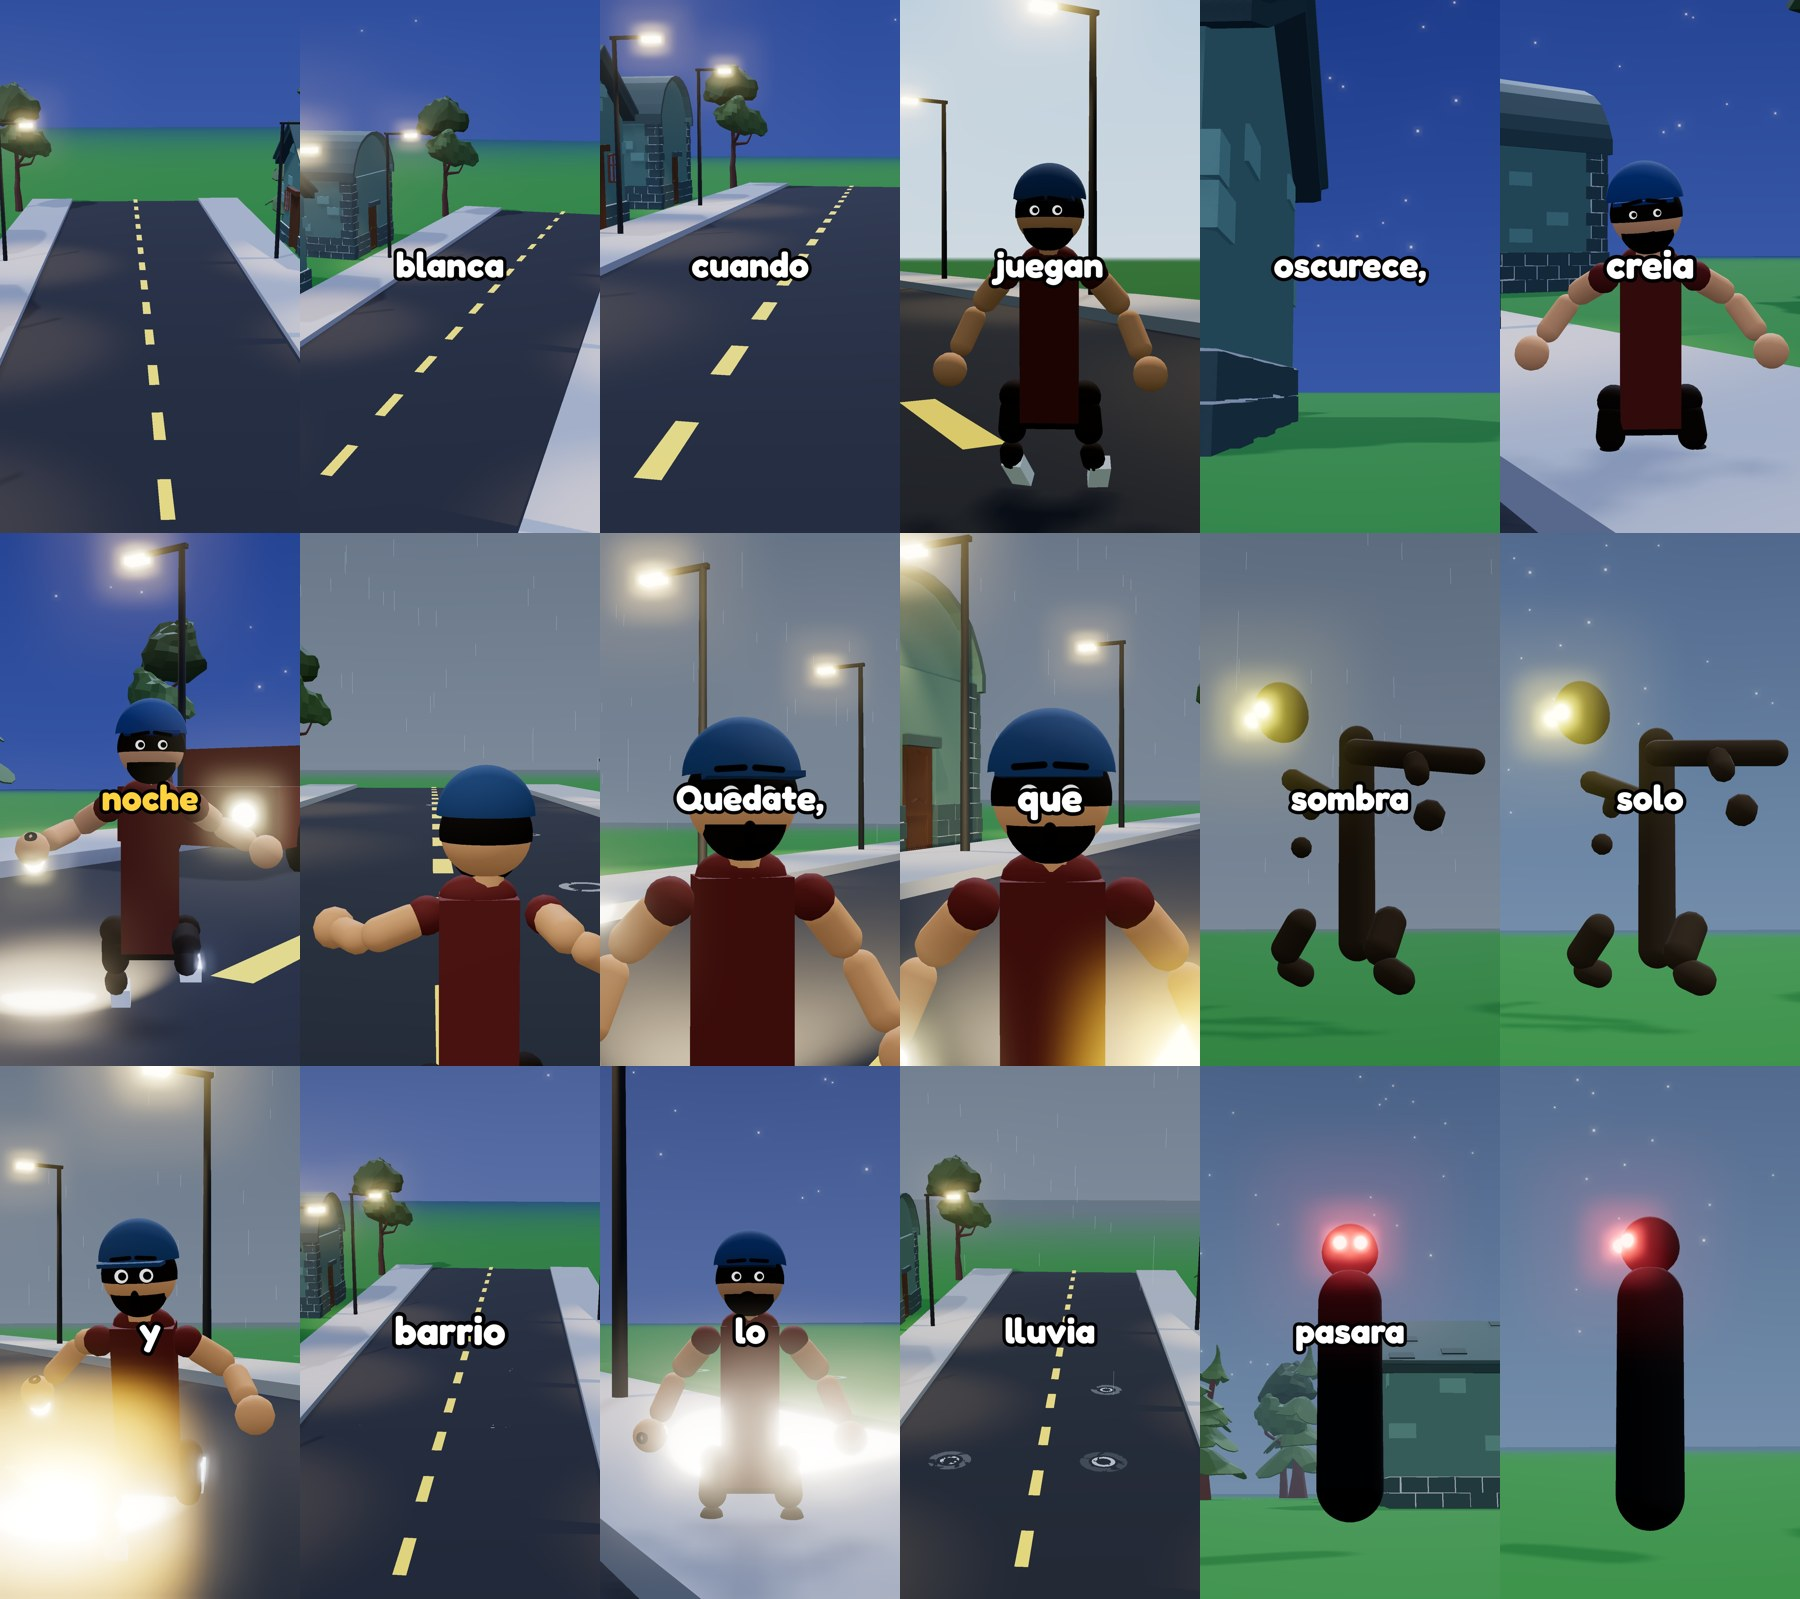
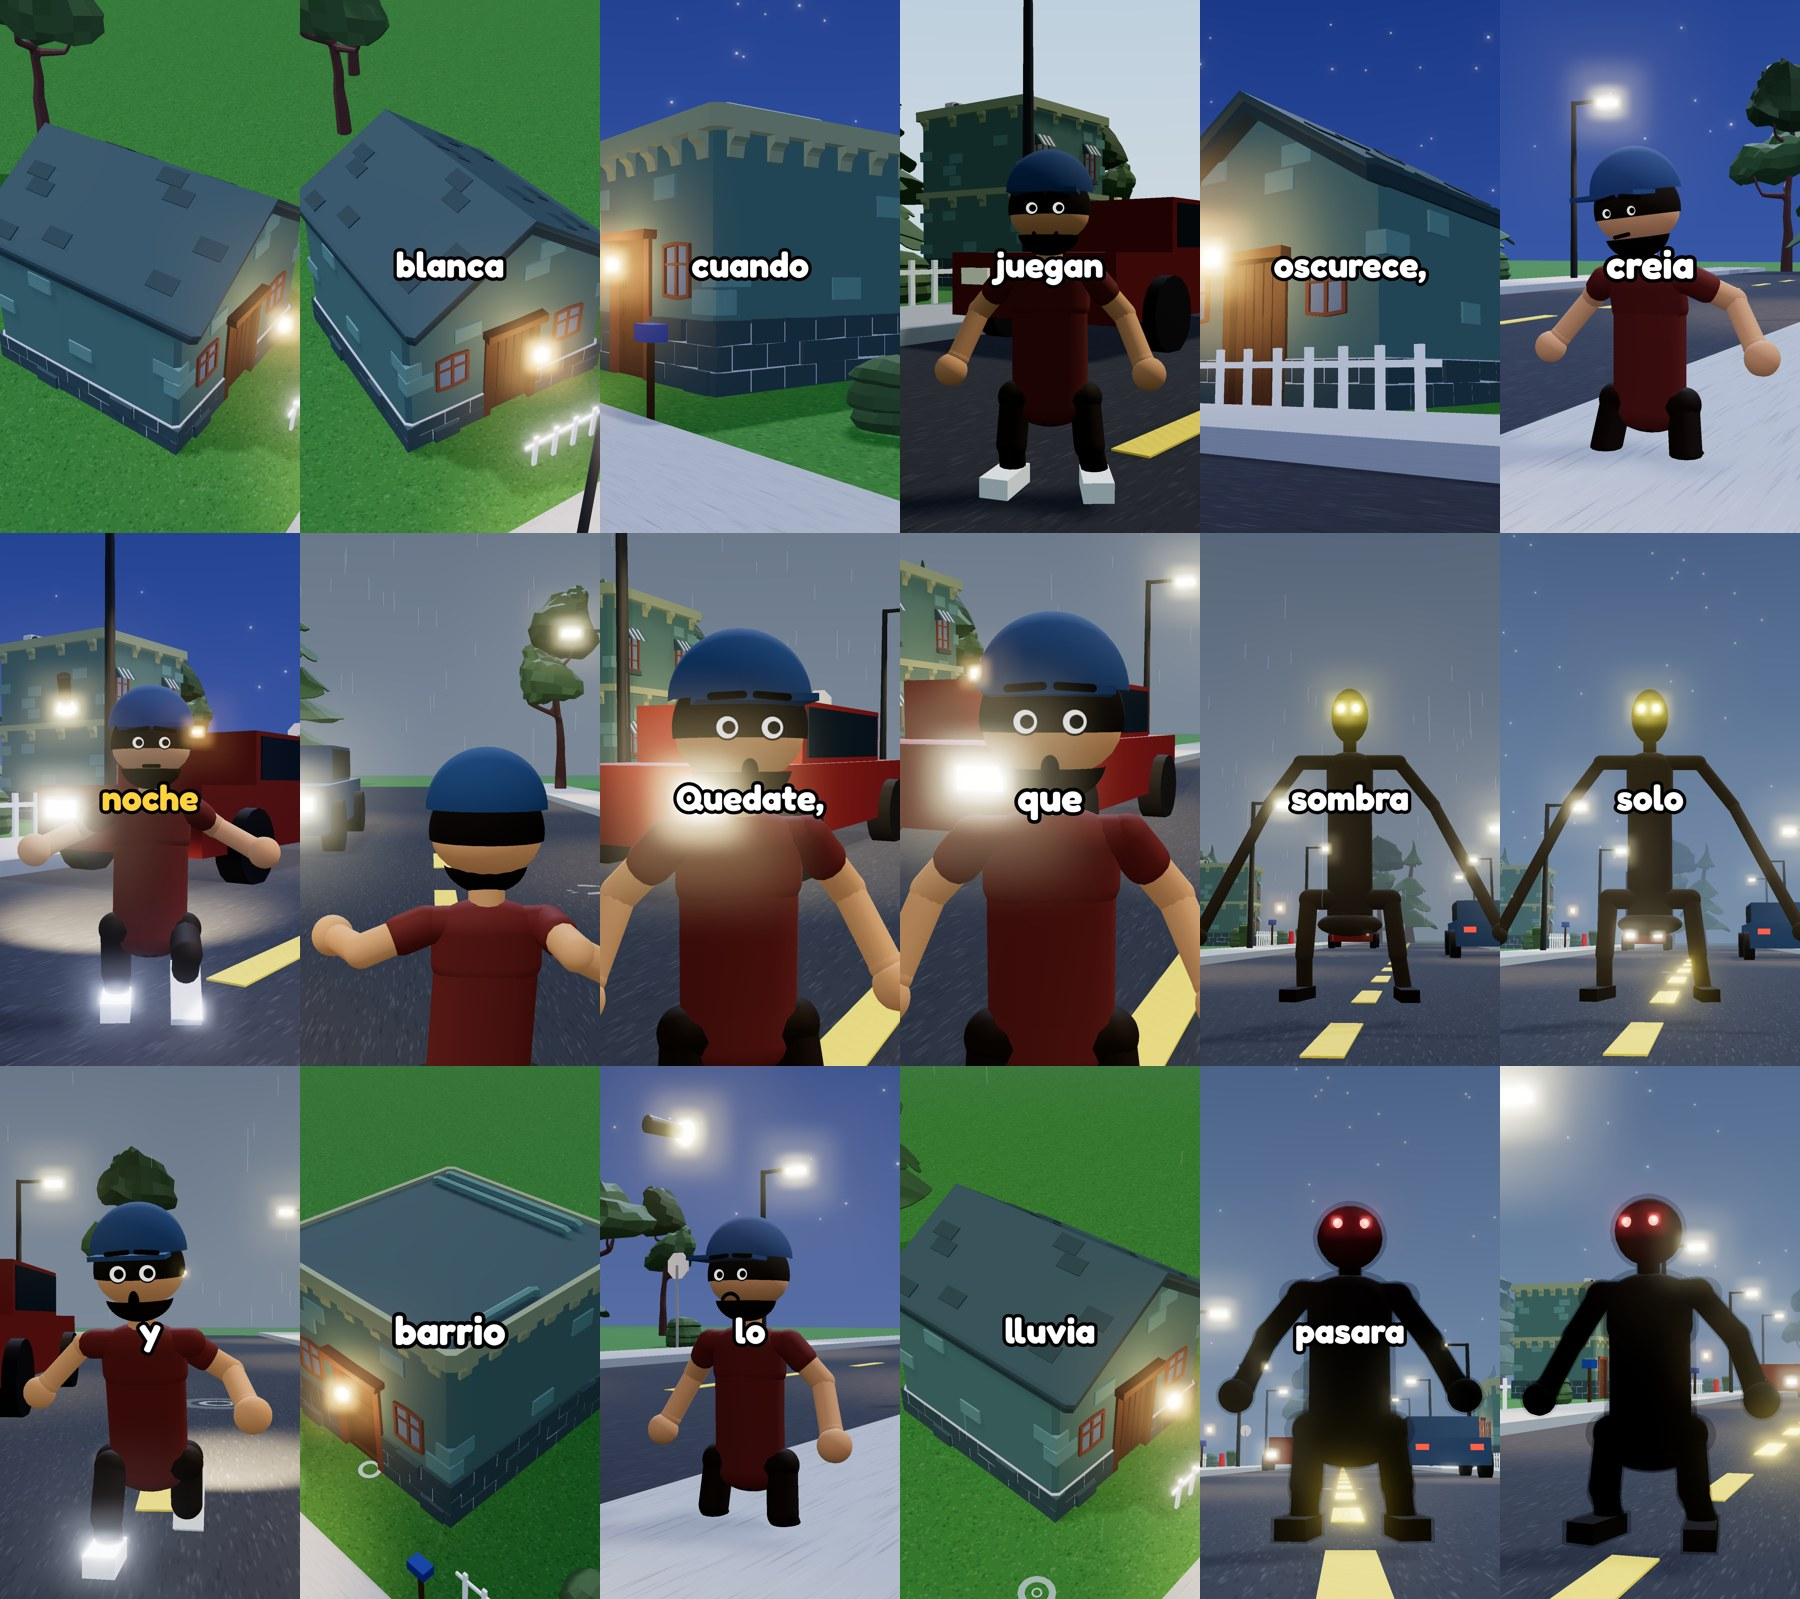
motor-3d r4: assunto do plano = maior objeto principal perto (casa > carro > poste), objeto enquadrado mais perto quando tapado, rosto no terco de cima no close; folhas SV/HM/CL passam no fiscal com o teste de assunto

diff --git a/motor-3d/kit/camera.js b/motor-3d/kit/camera.js
@@ -59,16 +59,16 @@ function distParaEnquadrar(alturaAlvoM, fracaoTela, fovGraus) {
 function montarObjeto(plano, alvo, a, fov, orbitDeg, extra) {
   const bx = alvo.caixa || new THREE.Box3().setFromObject(alvo.obj);
   const c = bx.getCenter(new THREE.Vector3()), tam = bx.getSize(new THREE.Vector3());
-  const h = tam.y, w = Math.max(tam.x, tam.z);
+  const h = tam.y, w = Math.min(Math.max(tam.x, tam.z), h * 1.8); // caixa larga (cordas/estacas) nao afasta a camera
   const t = Math.tan(THREE.MathUtils.degToRad(fov) / 2);
-  const d = Math.max(h / 0.62, w / (0.86 * 9 / 16)) / (2 * t) + w * 0.35;
+  const d = (Math.max(h / 0.85, w / (0.95 * 9 / 16)) / (2 * t) + w * 0.15) * (extra.aproxima || 1);
   // direcao: do objeto para a marca (o lado "de frente" do cenario), girada pelo orbit e pelo deslize
   const m = alvo.marca || { x: c.x, z: c.z + 5 };
   const dir = new THREE.Vector3(m.x - c.x, 0, m.z - c.z); if (dir.lengthSq() < 0.5) dir.set(0, 0, 1); dir.normalize();
   dir.applyAxisAngle(new THREE.Vector3(0, 1, 0), THREE.MathUtils.degToRad(orbitDeg) + (a - 0.5) * 0.5);
   const pos = new THREE.Vector3(), olha = c.clone(); olha.y = bx.min.y + h * 0.45;
   if (plano === 'aereo') { pos.copy(c).addScaledVector(dir, d * 0.85); pos.y = bx.min.y + h * 0.6 + d * 0.55; }
-  else if (plano === 'baixo') { pos.copy(c).addScaledVector(dir, d * 0.7); pos.y = 0.6; olha.y = bx.min.y + h * 0.6; }
+  else if (plano === 'baixo') { pos.copy(c).addScaledVector(dir, d * 0.85); pos.y = 0.5; olha.y = bx.min.y + h * 0.5; }
   else { pos.copy(c).addScaledVector(dir, d * (1 - 0.12 * a)); pos.y = Math.max(1.6, bx.min.y + h * 0.4); }
   return { pos, olha, cab: olha.clone() };
 }
@@ -103,7 +103,7 @@ function montar(plano, alvo, a, fov, orbitDeg = 0, extra = {}) {
       const d = distParaEnquadrar(alvoAltura, 0.85, fov) * (1 - dolly * 0.5);
       pos.copy(cab).addScaledVector(fr, d).addScaledVector(lado, 0.22 * desliza);
       pos.y = cab.y + 0.04 * desliza;
-      olha.copy(cab);
+      olha.copy(cab); olha.y -= 0.14; // rosto no terco de cima: a legenda (centro) nao cobre os olhos
       break;
     }
     case 'medio': { // corpo inteiro ~65% da tela; de frente, leve lateral. Olha p/ o peito (rosto no terco de cima).
@@ -227,10 +227,11 @@ export function aplicarPlano(cam, plano, alvo, t, opts = {}) {
   // o alvo serao ESCONDIDOS pelo engine (nao basta orbitar, regra da rodada 3).
   const tentativas = [0, 25, -25, 55, -55, 90, -90, 135, -135];
   let m = null;
-  for (const orb of tentativas) {
-    const cand = montar(plano, alvo, a, fov, orb, { fundo: opts.fundo });
+  const aprox = alvo.ehObjeto ? [1, 0.8, 0.62] : [1];
+  busca: for (const ap of aprox) for (const orb of tentativas) {
+    const cand = montar(plano, alvo, a, fov, orb, { fundo: opts.fundo, aproxima: ap });
     prenderNoComodo(cand.pos, opts.limites);
-    if (!dentroDeObjeto(cand.pos, opts.obstaculos) && !pertoDeParede(cand.pos, opts.paredes, alvo)) { m = cand; break; }
+    if (!dentroDeObjeto(cand.pos, opts.obstaculos) && !pertoDeParede(cand.pos, opts.paredes, alvo)) { m = cand; break busca; }
     if (!m) m = cand;
   }
 

diff --git a/motor-3d/kit/criatura.js b/motor-3d/kit/criatura.js
@@ -58,7 +58,7 @@ async function animarManequim(obj, nome, timeScale = 1) {
 
 // configuração base de cada tipo (opts do roteiro sobrescreve altura/cor/olhos)
 const HUMANOIDES = {
-  alta: { altura: 3.5, cor: 0x3a2e22, largura: 0.3, prof: 0.17, braco: 0.045, perna: 0.06, cabeca: 0.13, antebraco: 2.4, olhos: [3.4, 2.9, 0.4], olhoR: 0.026, acao: 'Walking_A', ts: 0.5 },
+  alta: { altura: 3.5, cor: 0x3a2e22, largura: 0.3, prof: 0.17, braco: 0.045, perna: 0.06, cabeca: 0.13, antebraco: 2.4, olhos: [3.4, 2.9, 0.4], olhoR: 0.026, acao: 'Idle_A', ts: 0.5 },
   sem_rosto: { altura: 2.05, cor: 0x15151c, largura: 0.38, prof: 0.22, braco: 0.055, perna: 0.068, cabeca: 0.14, corCabeca: 0xe8e2d6, corMao: 0xe8e2d6, acao: 'Idle_A', ts: 0.7, semOlhos: true },
   mulher_branca: { altura: 1.8, cor: 0xeeeee6, largura: 0.3, prof: 0.18, braco: 0.042, perna: 0.05, cabeca: 0.14, corMao: 0xd8d8d0, acao: 'Idle_B', ts: 0.6, semOlhos: true },
   espantalho: { altura: 1.95, cor: 0x7a4a2a, calca: 0x3a4a6a, largura: 0.34, prof: 0.2, braco: 0.05, perna: 0.062, cabeca: 0.16, corCabeca: 0xc8a85a, corMao: 0xd8b25a, acao: 'Idle_A', ts: 0.8, olhos: [0.05, 0.05, 0.05], olhoR: 0.03 },

diff --git a/motor-3d/engine.html b/motor-3d/engine.html
@@ -249,13 +249,16 @@ function alvoDaCena(cena, plano) {
 // objeto principal visivel mais perto de (x,z), ate `max` metros (centro da caixa no chao)
 const _bxP = new THREE.Box3(), _cP = new THREE.Vector3();
 function principalPerto(x, z, max = 30, exceto = null) {
-  let melhor = null, dm = max;
+  let melhor = null, dm = Infinity;
   for (const o of principais) {
     if (o === exceto) continue;
     _bxP.setFromObject(o); if (_bxP.isEmpty()) continue; _bxP.getCenter(_cP);
     const altura = _bxP.max.y - _bxP.min.y; if (altura < 1.2) continue;
-    const d = Math.hypot(_cP.x - x, _cP.z - z);
-    if (d < dm) { dm = d; melhor = o; }
+    const d = Math.hypot(_cP.x - x, _cP.z - z); if (d > max) continue;
+    // prefere objetos GRANDES (casa > poste): distancia dividida pelo tamanho da base
+    const base = (_bxP.max.x - _bxP.min.x) * (_bxP.max.z - _bxP.min.z);
+    const nota = d / (1 + Math.min(base * altura, 320) / 40); // volume: casa/torre > carro > poste
+    if (nota < dm) { dm = nota; melhor = o; }
   }
   return melhor;
 }

diff --git a/motor-3d/kit/personagem.js b/motor-3d/kit/personagem.js
@@ -277,7 +277,7 @@ function montarCorpo(obj, spec) {
     if (spec.chapeu) cab.add(fazerChapeu(spec.chapeu, R));
     if (spec.barba) {
       const barba = new THREE.Mesh(new THREE.SphereGeometry(R * 0.82, 16, 10, 0, 6.3, Math.PI * 0.55, Math.PI * 0.45), new THREE.MeshStandardMaterial({ color: spec.cabelo_cor, roughness: 1 }));
-      barba.position.set(0, -R * 0.22, R * 0.18); cab.add(barba);
+      barba.position.set(0, -R * 0.45, R * 0.16); barba.scale.set(0.95, 0.75, 0.9); cab.add(barba);
     }
   }
   if (spec.acessorio) porAcessorio(spec.acessorio, cab, chest && grupoEm(chest, c.pontos.chest), R);

diff --git a/motor-3d/testes/quadro.py b/motor-3d/testes/quadro.py
@@ -1,0 +1,24 @@
+#!/usr/bin/env python3
+"""Diagnostico: renderiza UM quadro de um roteiro 3D no instante t e salva <saida>.jpg (com info do plano).
+Uso: python quadro.py SV-3d-exemplo.json SV-3d-tempos.json 17.5 saida.jpg"""
+import base64, functools, http.server, json, os, sys, threading
+sys.path.insert(0, os.path.dirname(os.path.abspath(__file__)))
+from conferir_quadros import _H, _porta, MOTOR3D, carregar, resolver
+from playwright.sync_api import sync_playwright
+
+hist, temp, t, out = sys.argv[1], sys.argv[2], float(sys.argv[3]), sys.argv[4]
+estado = resolver(carregar(hist), json.load(open(temp)))
+porta = _porta()
+srv = http.server.ThreadingHTTPServer(("127.0.0.1", porta), functools.partial(_H, directory=MOTOR3D))
+threading.Thread(target=srv.serve_forever, daemon=True).start()
+with sync_playwright() as pw:
+    b = pw.chromium.launch(); pg = b.new_page(viewport={"width": 1080, "height": 1920})
+    pg.goto(f"http://127.0.0.1:{porta}/engine.html")
+    pg.wait_for_function("() => typeof window.setup === 'function'", timeout=30000)
+    pg.evaluate("h => setup(h)", estado); pg.wait_for_function("() => window.pronto === true", timeout=120000)
+    pg.evaluate("t => window.prepararQuadro(t)", t)
+    d = pg.evaluate("t => { render(t); return document.getElementById('c').toDataURL('image/jpeg',0.85).split(',')[1]; }", t)
+    open(out, "wb").write(base64.b64decode(d))
+    print(pg.evaluate("() => ({q: window.__ultimoQuadro, c: window.__caminfo()})"))
+    b.close()
+srv.shutdown()
